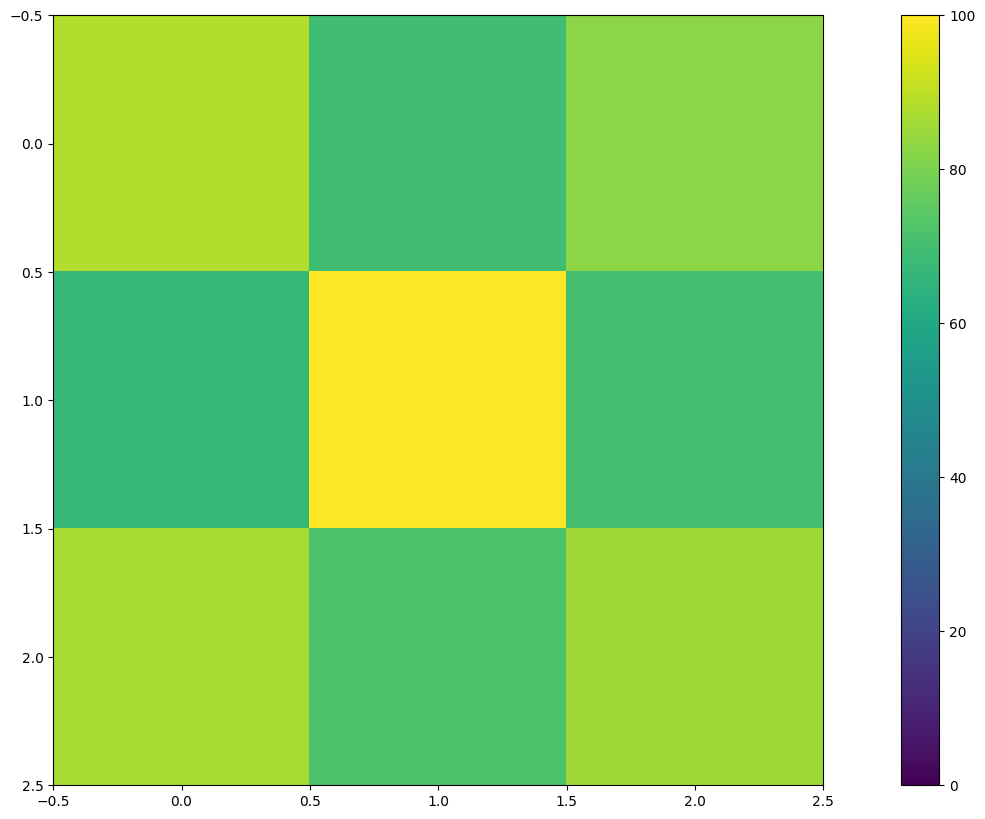
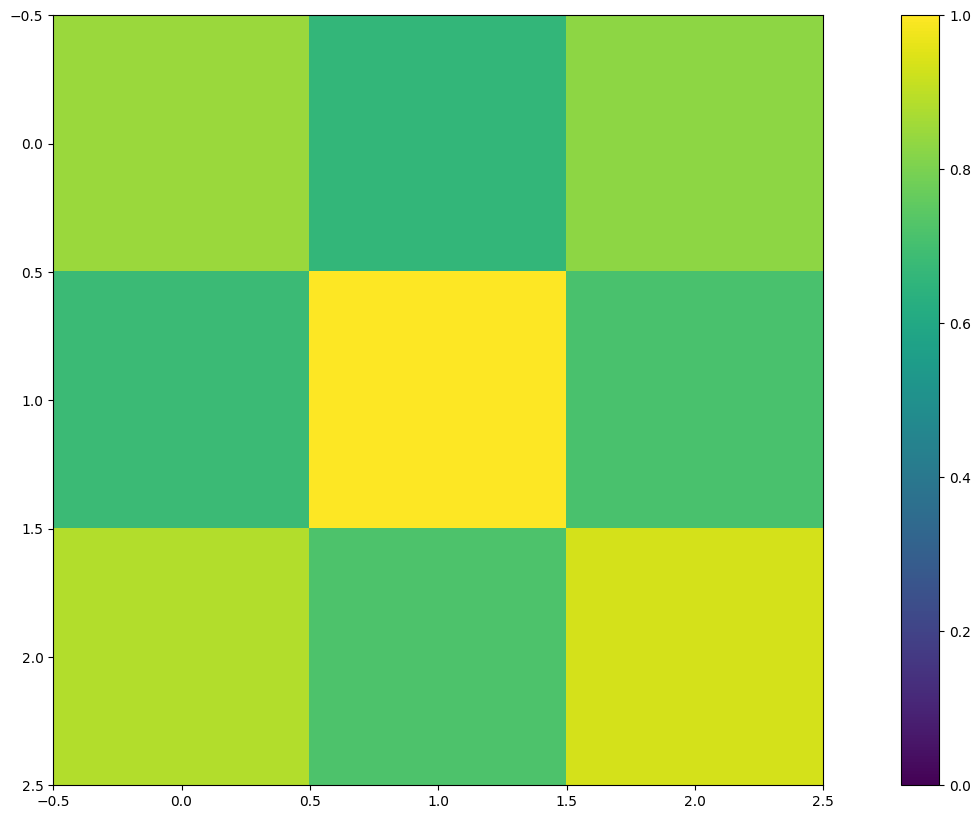
1.2: added train matrix log

diff --git a/project_1/task1.2/task1.2.py b/project_1/task1.2/task1.2.py
@@ -94,8 +94,8 @@ def plot_temperature_map(n, stat, img_name='temperature_map.png'):
                             plots_folder, img_name)
 
     plt.figure(figsize=(20, 10))
-    coef = 100.0/stat.max()
-    plt.imshow(stat * coef, vmin=0, vmax=100)
+    coef = 1./stat.max()
+    plt.imshow(stat * coef, vmin=0, vmax=1)
     plt.colorbar()
     plt.savefig(img_path, facecolor='w', edgecolor='w',
                     papertype=None, format='png', transparent=False,
@@ -473,6 +473,10 @@ if __name__ == '__main__':
     games = 100
     trainings = 1000
     field_st, player_st = train(n=trainings)
+    for k, v in field_st.items():
+        logger.info('Game statistics matrix for %s' % k)
+        print_game_state(v)
+
     tournament(n=games,
                x_strategy='intelligent',
                o_strategy='intelligent',
